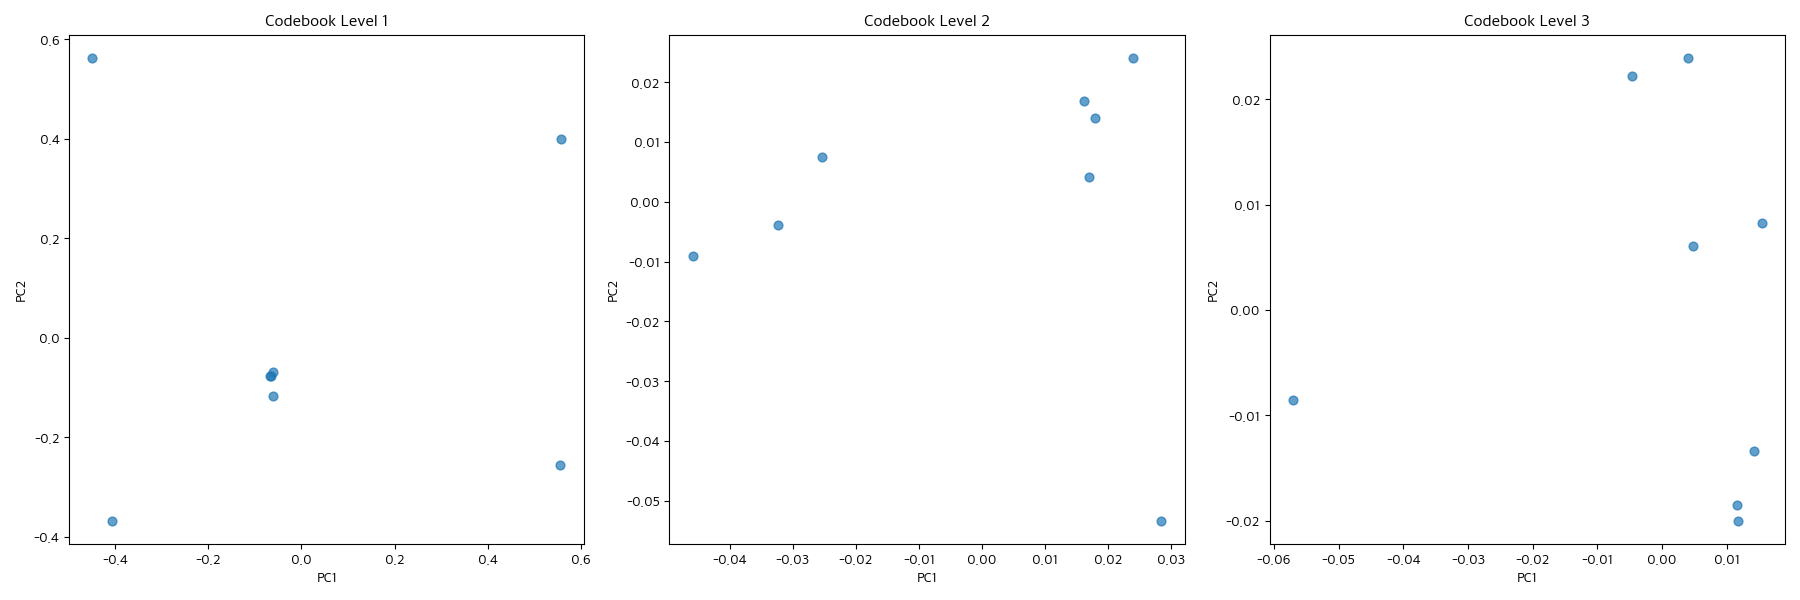
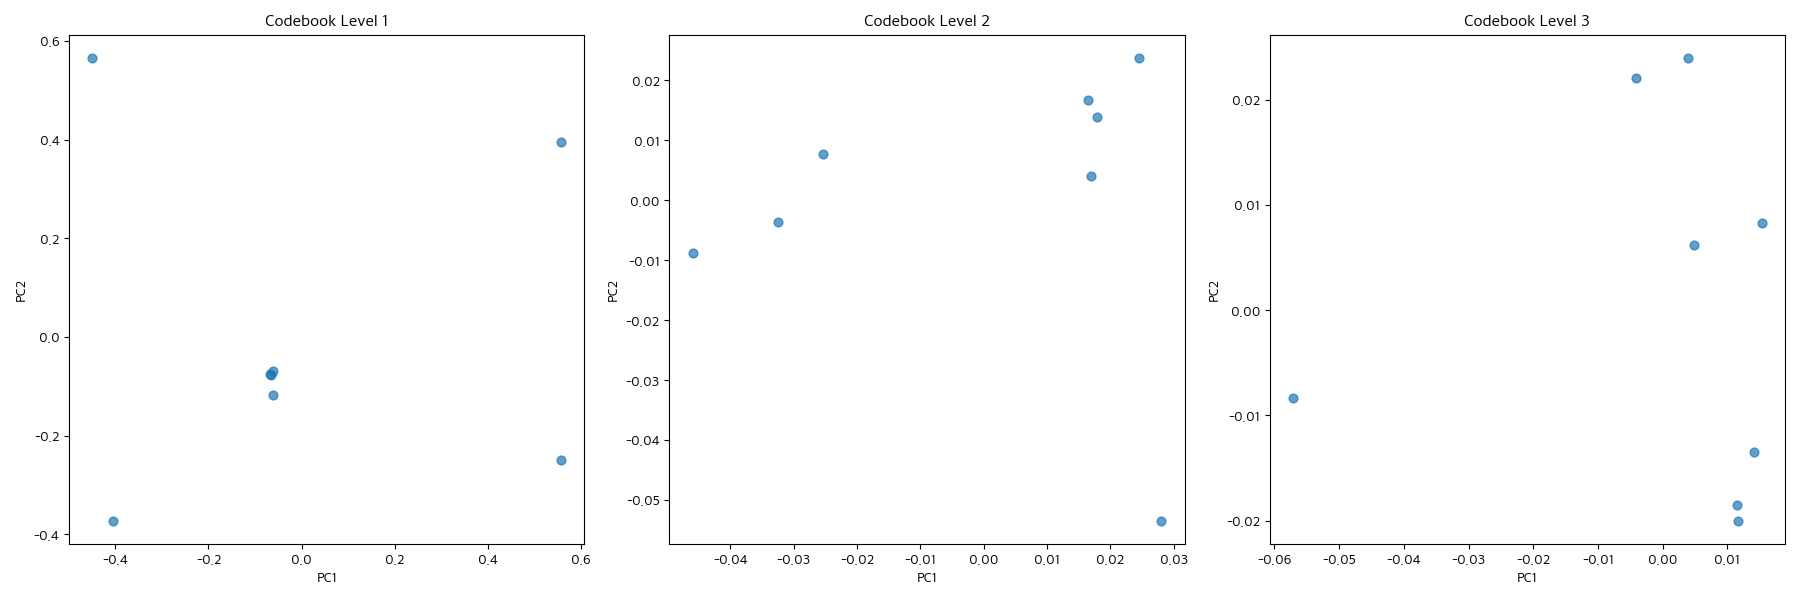
수정완

diff --git a/main.py b/main.py
@@ -21,9 +21,15 @@ from models.recommender import AutoGraphRecommender
 from utils.visualization import visualize_residual_quantization, visualize_full_graph
 from models.like_weight_processor import LikesWeightProcessor
 
-def main():
+def main(test_user_id=None):
     """
     AutoGraph를 이용한 도서 추천 시스템 구현 메인 함수
+    
+    Args:
+        test_user_id (Any, optional): 테스트할 사용자 ID. None인 경우 첫 번째 사용자를 사용함.
+    
+    Returns:
+        dict: 처리된 데이터 및 모델
     """
     print("=== AutoGraph 기반 도서 추천 시스템 ===")
     
@@ -397,10 +403,19 @@ def main():
     )
 
     # 테스트 사용자에 대한 추천 생성
-    # 첫 번째 사용자 ID 선택
+    # 사용자 ID 선택
     if len(users_df) > 0:
-        test_user_id = users_df['user_id'].iloc[0]  # 데이터프레임의 첫 번째 사용자 ID 사용
-        test_user_idx = 0  # 첫 번째 사용자의 인덱스
+        # 인자로 전달된 test_user_id가 있고, 유효한 경우 해당 사용자 사용
+        if test_user_id is not None and test_user_id in users_df['user_id'].values:
+            print(f"입력된 사용자 ID {test_user_id}로 추천을 생성합니다.")
+            # users_df에서 해당 ID의 인덱스 찾기
+            test_user_idx = users_df.index[users_df['user_id'] == test_user_id].tolist()[0]
+        else:
+            # 입력된 ID가 없거나 유효하지 않은 경우 첫 번째 사용자 사용
+            if test_user_id is not None:
+                print(f"입력된 사용자 ID {test_user_id}가 유효하지 않습니다. 첫 번째 사용자로 대체합니다.")
+            test_user_id = users_df['user_id'].iloc[0]  # 데이터프레임의 첫 번째 사용자 ID 사용
+            test_user_idx = 0  # 첫 번째 사용자의 인덱스
         
         # NumPy 배열을 PyTorch 텐서로 변환
         if isinstance(user_vectors, np.ndarray):
@@ -505,6 +520,12 @@ if __name__ == "__main__":
     np.random.seed(42)
     torch.manual_seed(42)
     
+    # 명령줄 인자 파싱
+    import argparse
+    parser = argparse.ArgumentParser(description='AutoGraph 기반 도서 추천 시스템')
+    parser.add_argument('--user_id', type=str, help='테스트할 사용자 ID', default=None)
+    args = parser.parse_args()
+    
     # matplotlib 설정 (Agg 백엔드 사용)
     import matplotlib
     matplotlib.use('Agg')  # GUI 없이 이미지 파일로 저장
@@ -513,5 +534,17 @@ if __name__ == "__main__":
     plt.rcParams["axes.unicode_minus"] = False  # 마이너스 기호 깨짐 방지
     import seaborn as sns
     
+    # test_user_id가 문자열이 아닌 경우에도 잘 동작하도록 변환
+    user_id = None
+    if args.user_id is not None:
+        try:
+            # 정수인 경우 정수로 변환
+            if args.user_id.isdigit():
+                user_id = int(args.user_id)
+            else:
+                user_id = args.user_id  # 문자열 그대로 유지
+        except:
+            user_id = args.user_id  # 문자열 그대로 유지
+    
     # 메인 함수 실행
-    main()
+    main(user_id)
